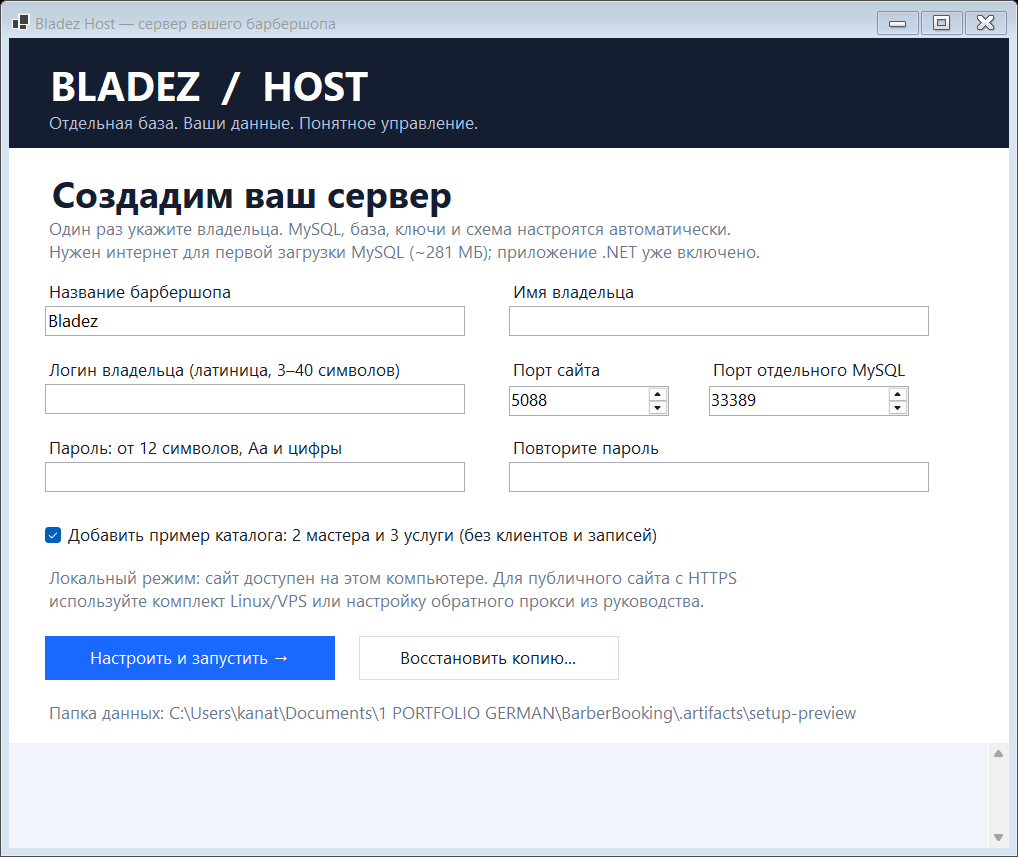
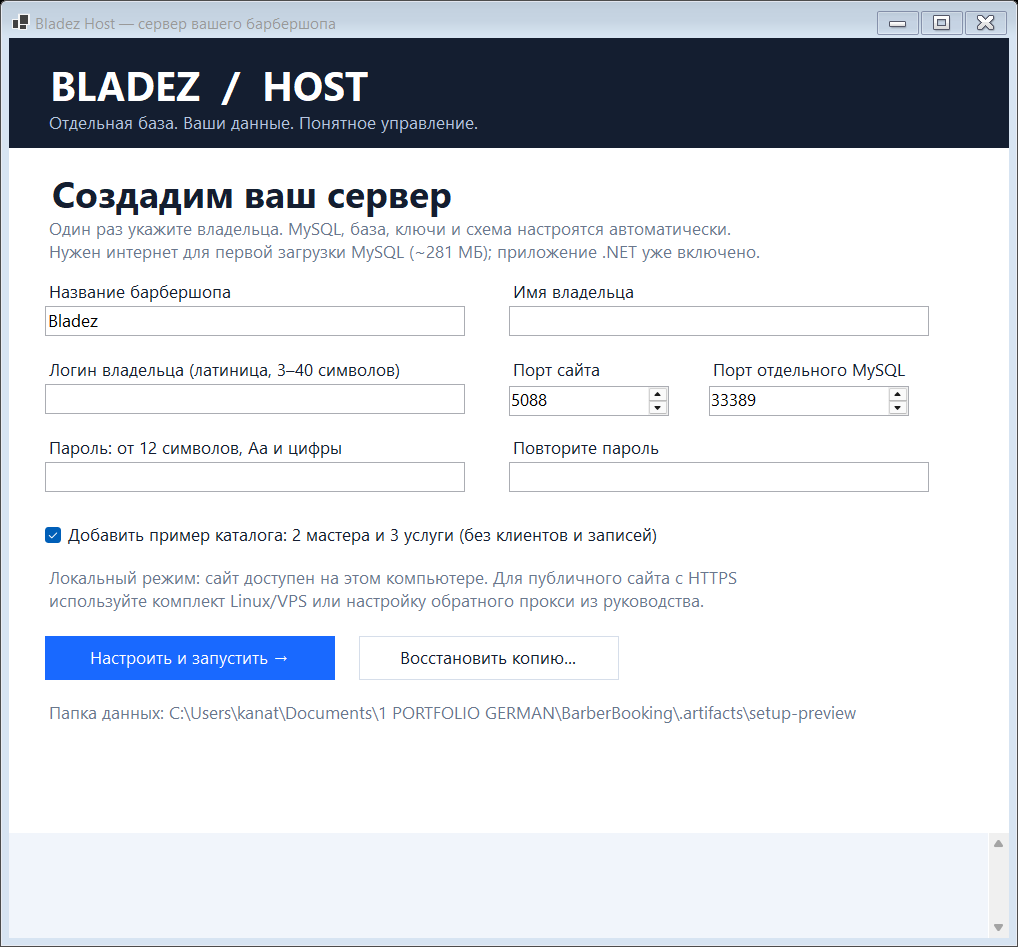
Verify graceful and crash-safe host ownership and deployment readiness

diff --git a/Bladez.Host/ProcessGuard.cs b/Bladez.Host/ProcessGuard.cs
@@ -1,0 +1,42 @@
+using System.ComponentModel;
+using System.Diagnostics;
+using System.Runtime.InteropServices;
+using Microsoft.Win32.SafeHandles;
+
+namespace Bladez.Host;
+
+/// <summary>Windows closes this job on an unexpected host exit and terminates only its children.</summary>
+internal static class ProcessGuard
+{
+    private static SafeFileHandle? job;
+    internal static void Attach()
+    {
+        job = CreateJobObject(IntPtr.Zero, null);
+        if (job.IsInvalid) throw new Win32Exception(Marshal.GetLastWin32Error(), "Не удалось создать изоляцию процессов сервера.");
+        var limits = new ExtendedLimits { Basic = new BasicLimits { LimitFlags = 0x2000 } }; // KILL_ON_JOB_CLOSE
+        if (!SetInformationJobObject(job, 9, ref limits, (uint)Marshal.SizeOf<ExtendedLimits>())
+            || !AssignProcessToJobObject(job, Process.GetCurrentProcess().Handle))
+            throw new Win32Exception(Marshal.GetLastWin32Error(), "Не удалось изолировать дочерние процессы сервера.");
+        // Keep the handle alive for the process lifetime. Never close it while the UI is running.
+    }
+    [StructLayout(LayoutKind.Sequential)] private struct BasicLimits
+    {
+        public long PerProcessUserTimeLimit, PerJobUserTimeLimit;
+        public uint LimitFlags;
+        public UIntPtr MinimumWorkingSetSize, MaximumWorkingSetSize;
+        public uint ActiveProcessLimit;
+        public UIntPtr Affinity;
+        public uint PriorityClass, SchedulingClass;
+    }
+    [StructLayout(LayoutKind.Sequential)] private struct IoCounters
+    { public ulong ReadOperationCount, WriteOperationCount, OtherOperationCount, ReadTransferCount, WriteTransferCount, OtherTransferCount; }
+    [StructLayout(LayoutKind.Sequential)] private struct ExtendedLimits
+    {
+        public BasicLimits Basic;
+        public IoCounters Io;
+        public UIntPtr ProcessMemoryLimit, JobMemoryLimit, PeakProcessMemoryUsed, PeakJobMemoryUsed;
+    }
+    [DllImport("kernel32.dll", CharSet = CharSet.Unicode, SetLastError = true)] private static extern SafeFileHandle CreateJobObject(IntPtr attributes, string? name);
+    [DllImport("kernel32.dll", SetLastError = true)] [return: MarshalAs(UnmanagedType.Bool)] private static extern bool SetInformationJobObject(SafeFileHandle job, int informationClass, ref ExtendedLimits limits, uint length);
+    [DllImport("kernel32.dll", SetLastError = true)] [return: MarshalAs(UnmanagedType.Bool)] private static extern bool AssignProcessToJobObject(SafeFileHandle job, IntPtr process);
+}

diff --git a/Bladez.Host/Program.cs b/Bladez.Host/Program.cs
@@ -8,6 +8,8 @@ internal static class Program
     private static void Main(string[] args)
     {
         ApplicationConfiguration.Initialize();
+        try { ProcessGuard.Attach(); }
+        catch (Exception error) { MessageBox.Show(error.Message, "Bladez Host", MessageBoxButtons.OK, MessageBoxIcon.Error); return; }
         Application.SetUnhandledExceptionMode(UnhandledExceptionMode.CatchException);
         Application.ThreadException += (_, e) => MessageBox.Show(e.Exception.Message, "Bladez Host", MessageBoxButtons.OK, MessageBoxIcon.Error);
         Application.Run(new HostForm(args));
